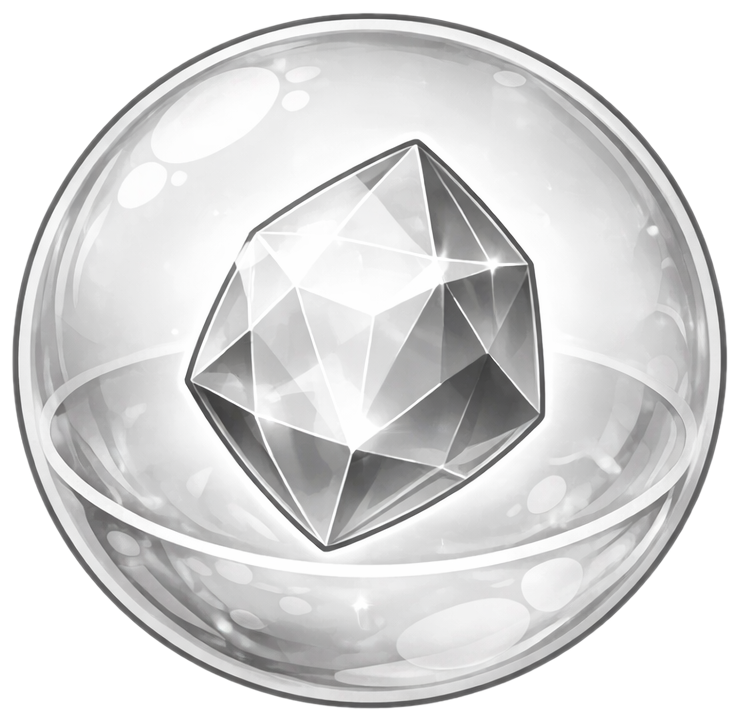
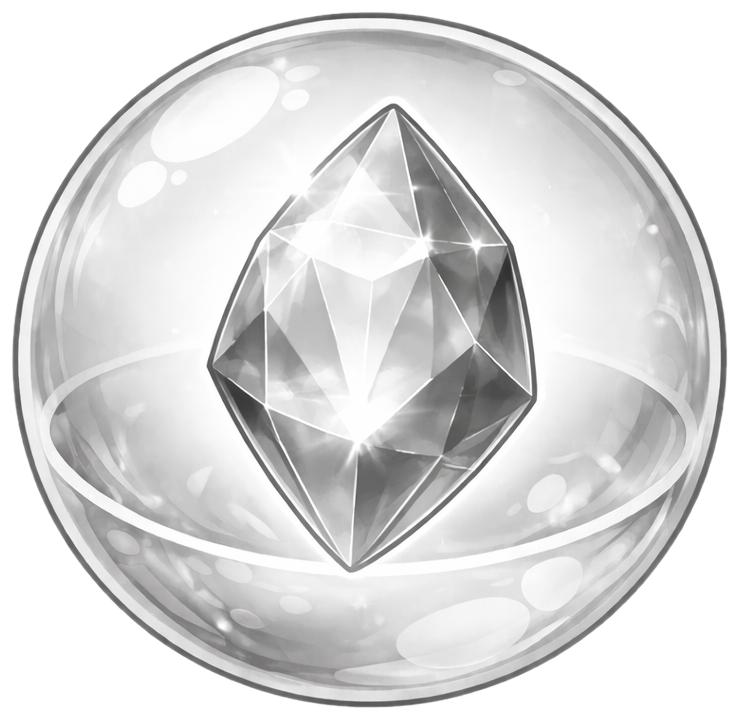
New 11-tier gem lineup with full color spectrum
- 11 tiers (0-10): pebble → moonstone → turquoise → aqua → sapphire →
  amethyst → ruby → citrine → topaz → emerald → diamond
- Color stream: none, lavender, turquoise, dark cyan, blue, purple,
  red, orange, yellow, green, natural gray
- New crystal assets for tiers 0-2, reprocessed all sprites
- Sparkles start at tier 3 (aqua) instead of tier 4
- Shop upgrade: "Sapphire Finder" (tier 4 chance, blue)
- All MAX_TIER references updated to 10
- Aqua darkened to #0E6E8A for clear separation from turquoise

diff --git a/src/game/gems.ts b/src/game/gems.ts
@@ -42,18 +42,17 @@ export interface Gem {
  * progression through all tiers. Two rainbow tier-11 → gems disappear.
  */
 export const GEM_TIERS: readonly GemDef[] = [
-  { id: 0,  type: 'pebble',      color: '#C0B8A8', radius: 24, points: 2     },
-  { id: 1,  type: 'ore',         color: '#A0A0A0', radius: 29, points: 5     },
-  { id: 2,  type: 'geode',       color: '#8899AA', radius: 35, points: 12    },
-  { id: 3,  type: 'cluster',     color: '#88BBCC', radius: 42, points: 30    },
-  { id: 4,  type: 'garnet',      color: '#DC2626', radius: 50, points: 80    },
-  { id: 5,  type: 'sapphire',    color: '#2563EB', radius: 60, points: 200   },
-  { id: 6,  type: 'emerald',     color: '#50C878', radius: 72, points: 500   },
-  { id: 7,  type: 'topaz',       color: '#F5C542', radius: 86, points: 1200  },
-  { id: 8,  type: 'amethyst',    color: '#9333EA', radius: 103, points: 3000  },
-  { id: 9,  type: 'aquamarine',  color: '#67E8F9', radius: 125, points: 7500  },
-  { id: 10, type: 'ruby',        color: '#F472B6', radius: 149, points: 18000 },
-  { id: 11, type: 'diamond',     color: '#E8E8E8', radius: 179, points: 50000 },
+  { id: 0,  type: 'pebble',       color: '#C0B8A8', radius: 24, points: 2     },
+  { id: 1,  type: 'moonstone',   color: '#B8A9D4', radius: 29, points: 5     },
+  { id: 2,  type: 'turquoise',   color: '#5EC4B6', radius: 35, points: 12    },
+  { id: 3,  type: 'aqua',        color: '#0E6E8A', radius: 42, points: 30    },
+  { id: 4,  type: 'sapphire',    color: '#2563EB', radius: 50, points: 80    },
+  { id: 5,  type: 'amethyst',    color: '#9333EA', radius: 60, points: 200   },
+  { id: 6,  type: 'ruby',        color: '#DC2626', radius: 72, points: 500   },
+  { id: 7,  type: 'citrine',     color: '#E8752F', radius: 86, points: 1200  },
+  { id: 8,  type: 'topaz',       color: '#F5C542', radius: 103, points: 3000  },
+  { id: 9,  type: 'emerald',     color: '#50C878', radius: 125, points: 7500  },
+  { id: 10, type: 'diamond',     color: '#E8E8E8', radius: 149, points: 18000 },
 ] as const;
 
 /**

diff --git a/src/game/gemSprites.ts b/src/game/gemSprites.ts
@@ -21,18 +21,17 @@ interface SpriteEntry {
  * Tier 11 is natural diamond gray (tint: false).
  */
 const TIER_SPRITES: SpriteEntry[] = [
-  { file: 'gem_pebble.png', tint: false }, // 0: pebble (smallest)
-  { file: 'gem_tier1.png',  tint: false }, // 1: raw rock with small gems
-  { file: 'gem_tier2.png',  tint: false }, // 2: raw rock with larger gems
-  { file: 'gem_tier3.png',  tint: false }, // 3: crystal cluster (colorful)
-  { file: 'gem_tier4.png',  tint: true  }, // 4: rough diamond
-  { file: 'gem_tier5.png',  tint: true  }, // 5: kite crystal
-  { file: 'gem_tier6.png',  tint: true  }, // 6: triangle
-  { file: 'gem_tier7.png',  tint: true  }, // 7: square
-  { file: 'gem_tier8.png',  tint: true  }, // 8: hexagon
-  { file: 'gem_tier9.png',  tint: true  }, // 9: round
-  { file: 'gem_tier10.png', tint: true  }, // 10: classic diamond
-  { file: 'gem_tier11.png', tint: false }, // 11: brilliant diamond (natural gray)
+  { file: 'gem_pebble.png', tint: false }, // 0: pebble (no color)
+  { file: 'gem_tier1.png',  tint: true  }, // 1: moonstone (lavender)
+  { file: 'gem_tier2.png',  tint: true  }, // 2: turquoise
+  { file: 'gem_tier3.png',  tint: true  }, // 3: sapphire (blue)
+  { file: 'gem_tier4.png',  tint: true  }, // 4: amethyst (purple)
+  { file: 'gem_tier5.png',  tint: true  }, // 5: ruby (red)
+  { file: 'gem_tier6.png',  tint: true  }, // 6: citrine (orange)
+  { file: 'gem_tier7.png',  tint: true  }, // 7: topaz (yellow)
+  { file: 'gem_tier8.png',  tint: true  }, // 8: emerald (green)
+  { file: 'gem_tier9.png',  tint: true  }, // 9: jade (dark green)
+  { file: 'gem_tier10.png', tint: false }, // 10: diamond (natural gray)
 ];
 
 // Deduplicate and preload all unique images

diff --git a/src/game/shop.ts b/src/game/shop.ts
@@ -188,9 +188,9 @@ export function getBounceBonus(): number { return bounceBonus; }
 const ITEM_DEFS: ShopItemDef[] = [
   {
     id: 'garnet_chance',
-    name: 'Garnet Finder',
-    nameColor: '#DC2626',
-    description: (pct) => `+${pct.toFixed(1)}% garnet in launcher`,
+    name: 'Sapphire Finder',
+    nameColor: '#2563EB',
+    description: (pct) => `+${pct.toFixed(1)}% sapphire in launcher`,
     basePct: 1,
     baseCost: 120,
     apply: (pct) => setGarnetChance(Math.min(0.5, getGarnetChance() + pct / 100)),
@@ -364,7 +364,7 @@ export function resetShop(): void {
 /** Get summary of all active upgrades for display. */
 export function getActiveUpgrades(): { name: string; value: string }[] {
   const ups: { name: string; value: string }[] = [];
-  const gc = getGarnetChance();    if (gc > 0) ups.push({ name: 'Garnet Finder', value: `${(gc * 100).toFixed(1)}%` });
+  const gc = getGarnetChance();    if (gc > 0) ups.push({ name: 'Sapphire Finder', value: `${(gc * 100).toFixed(1)}%` });
   const hc = getHeavyChance();     if (hc > 0) ups.push({ name: 'Heavy Gem', value: `${(hc * 100).toFixed(1)}%` });
   const bc = getBonusChance();     if (bc > 0) ups.push({ name: 'Score Gem', value: `${(bc * 100).toFixed(1)}%` });
   const ts = getTierSkipChance();  if (ts > 0) ups.push({ name: 'Tier Skip', value: `${(ts * 100).toFixed(1)}%` });

diff --git a/src/game/mergeExecutor.ts b/src/game/mergeExecutor.ts
@@ -116,9 +116,9 @@ export function processMerges(world: World): Body[] {
       triggerScreenShake(5 + tier * 2, 6);
 
       // Big explosion visuals — 4 layered particle bursts
-      emitMergeBurst(event.midX, event.midY, Math.min(tier + 3, 11), event.rainbow);
-      emitMergeBurst(event.midX, event.midY, Math.min(tier + 2, 11), event.rainbow);
-      emitMergeBurst(event.midX, event.midY, Math.min(tier + 1, 11), event.rainbow);
+      emitMergeBurst(event.midX, event.midY, Math.min(tier + 3, 10), event.rainbow);
+      emitMergeBurst(event.midX, event.midY, Math.min(tier + 2, 10), event.rainbow);
+      emitMergeBurst(event.midX, event.midY, Math.min(tier + 1, 10), event.rainbow);
       emitMergeBurst(event.midX, event.midY, tier, event.rainbow);
     }
 

diff --git a/src/game/particles.ts b/src/game/particles.ts
@@ -364,7 +364,7 @@ export function updateGemSparkles(
   for (const body of bodies) {
     if (body.isStatic()) continue;
     const data = getGemData(body);
-    if (!data || data.tier < 4) continue; // tier 4+ (garnet and up) — gems only, not rocks
+    if (!data || data.tier < 3) continue; // tier 3+ (aqua and up)
     if (bodySpeed(body) > 3) continue;
 
     const def = GEM_TIERS[data.tier];

diff --git a/src/game/blackhole.ts b/src/game/blackhole.ts
@@ -148,7 +148,7 @@ function finalize(bh: ActiveBlackhole): void {
 
   // Big explosion bursts
   emitMergeBurst(pos.x, pos.y, nextTier, false);
-  emitMergeBurst(pos.x, pos.y, Math.min(tier + 3, 11), false);
+  emitMergeBurst(pos.x, pos.y, Math.min(tier + 3, 10), false);
 
   _onBlackhole?.(tier, absorbed, totalPoints, pos.x, pos.y);
 }

diff --git a/src/game/launcher.ts b/src/game/launcher.ts
@@ -82,7 +82,7 @@ export function computeTrajectory(
   let y = startY;
 
   // Planck-matched physics (pixels/second units, Euler integration)
-  const t = tier / 11;
+  const t = tier / 10;
   const linearDamping = 0.8 - t * 0.5;       // mirrors gemSpawner
   const bounceRestitution = Math.max(0.5 - t * 0.3, 0.2);
 

diff --git a/src/game/mergeDetector.ts b/src/game/mergeDetector.ts
@@ -27,7 +27,7 @@ export function resetMergeQueue(): void {
   pendingBodies.clear();
 }
 
-const MAX_TIER = 11;
+const MAX_TIER = 10;
 
 // ---------------------------------------------------------------------------
 // Collision listener
